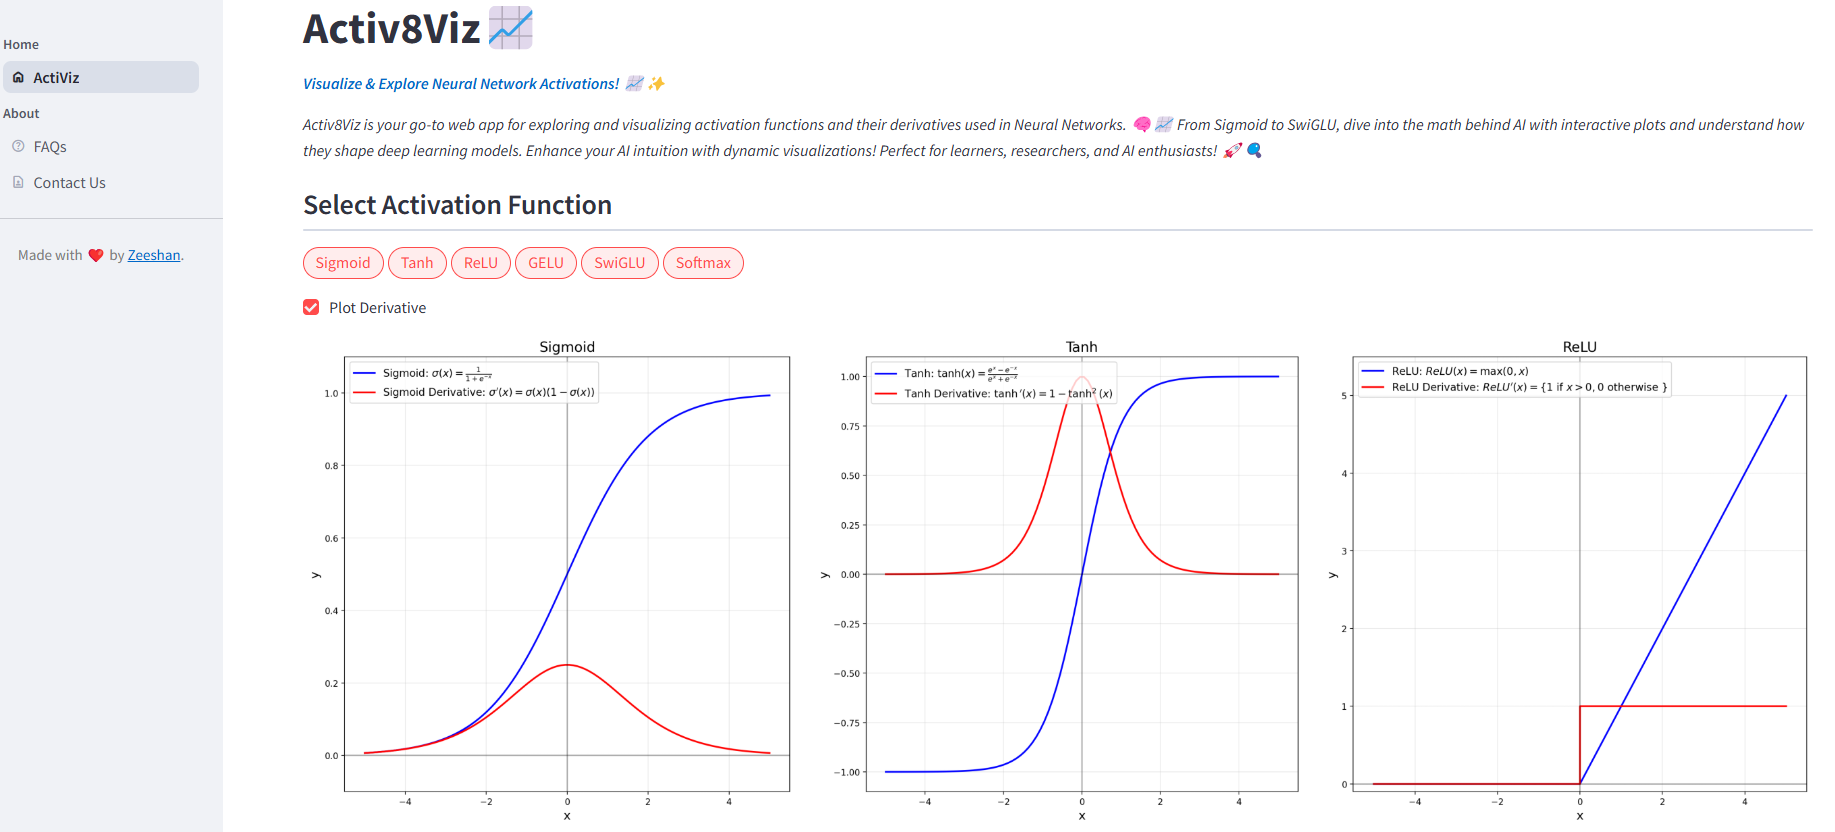
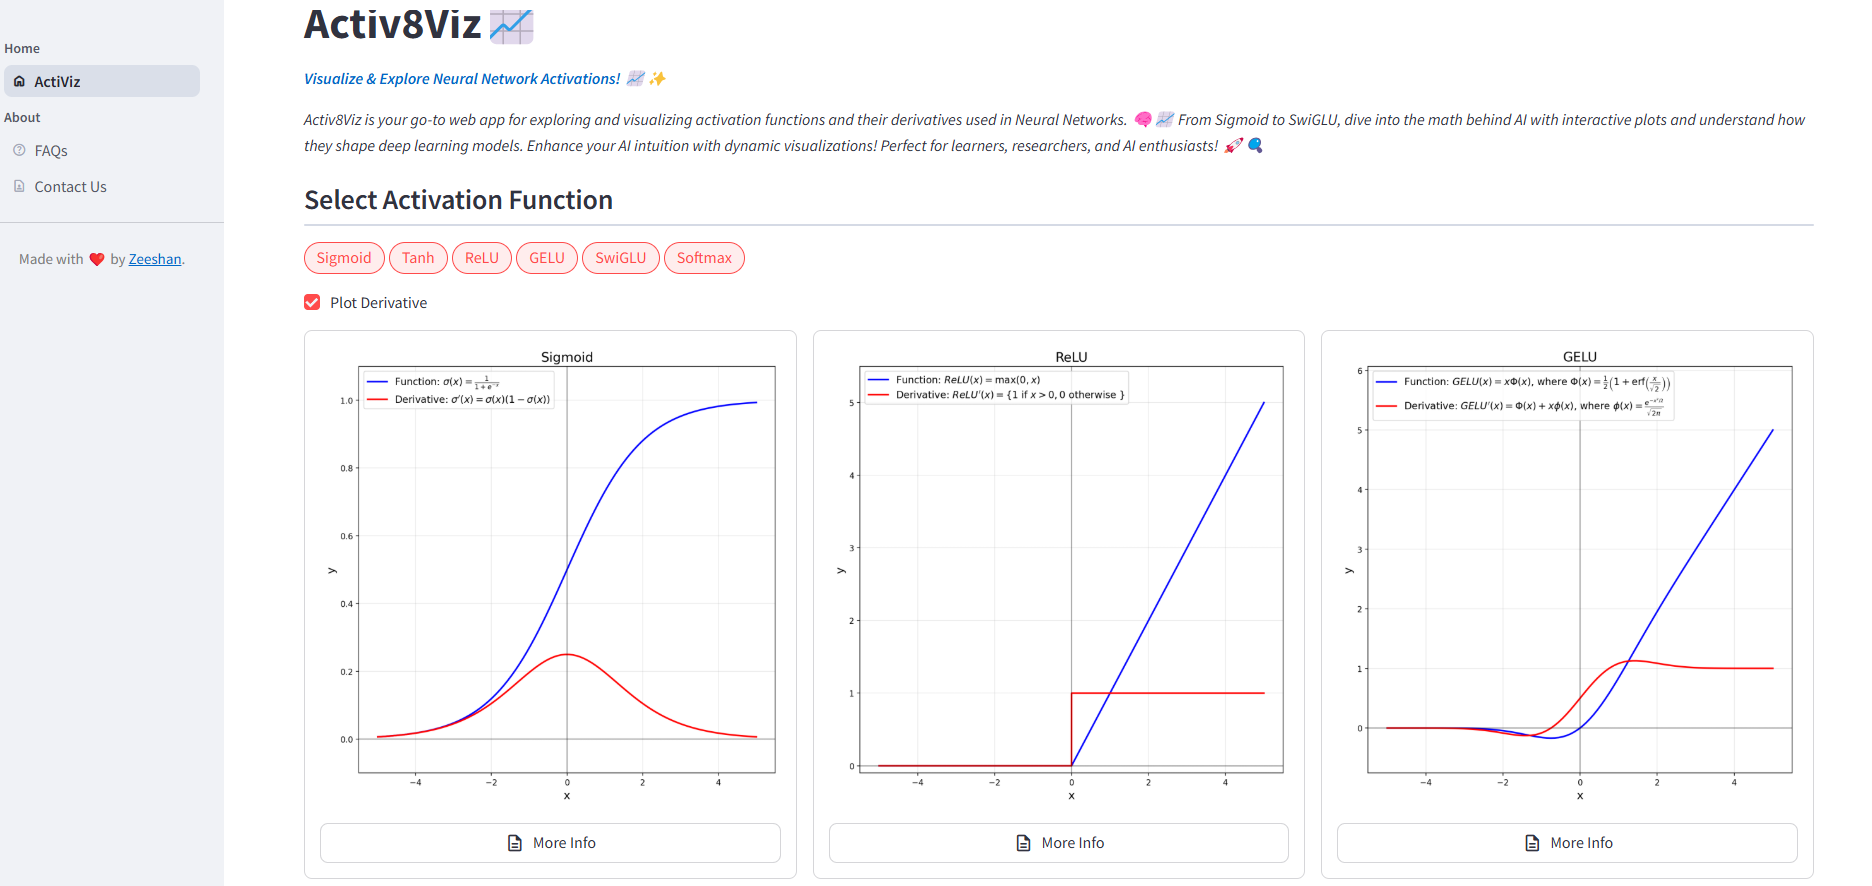
Added More Info button. Clicking the button will open up a dialog box with activation function details. Also organized the activation function in separate file

diff --git a/activation_functions.py b/activation_functions.py
@@ -1,0 +1,209 @@
+import numpy as np
+
+# Define activation functions and their derivatives
+def sigmoid(x):
+    """Sigmoid activation function"""
+    return 1 / (1 + np.exp(-x))
+
+def sigmoid_derivative(x):
+    """Derivative of sigmoid activation function"""
+    sig = sigmoid(x)
+    return sig * (1 - sig)
+
+def tanh(x):
+    """Hyperbolic tangent activation function"""
+    return np.tanh(x)
+
+def tanh_derivative(x):
+    """Derivative of hyperbolic tangent activation function"""
+    return 1 - np.tanh(x)**2
+
+def relu(x):
+    """ReLU activation function"""
+    return np.maximum(0, x)
+
+def relu_derivative(x):
+    """Derivative of ReLU activation function"""
+    return np.where(x > 0, 1, 0)
+
+def gelu(x):
+    """Gaussian Error Linear Unit (GELU) activation function"""
+    return 0.5 * x * (1 + np.tanh(np.sqrt(2 / np.pi) * (x + 0.044715 * x**3)))
+
+def gelu_derivative(x):
+    """Approximate derivative of GELU activation function"""
+    # Approximation
+    cdf = 0.5 * (1 + np.tanh(np.sqrt(2 / np.pi) * (x + 0.044715 * x**3)))
+    pdf = np.exp(-(x**2) / 2) / np.sqrt(2 * np.pi)
+    return cdf + x * pdf
+
+def swiglu(x):
+    """SwiGLU activation function (simplified for 1D)"""
+    # For simplicity, we'll use the same input for both parts
+    # SwiGLU(x,y) = x * sigmoid(beta * y)
+    beta = 1.0  # Default beta value
+    return x * sigmoid(beta * x)
+
+def swiglu_derivative(x):
+    """Approximate derivative of SwiGLU activation function (simplified for 1D)"""
+    beta = 1.0
+    sig = sigmoid(beta * x)
+    return sig + x * beta * sig * (1 - sig)
+
+def softmax(x):
+    """Softmax activation function (simplified for 1D visualization)"""
+    # For visualization purposes, we'll just show a shifted exponential
+    # since proper softmax requires multiple inputs
+    return np.exp(x) / (1 + np.exp(x))
+
+def softmax_derivative(x):
+    """Simplified derivative of softmax (just for visualization)"""
+    # This is a simplification for visualization
+    soft = softmax(x)
+    return soft * (1 - soft)
+
+# Activate functions formula, derivative formula, key characteristics and common use cases
+# Sigmoid
+sigmoid_function_label = 'Function: $\\sigma(x) = \\frac{1}{1 + e^{-x}}$'
+sigmoid_derivative_label = 'Derivative: $\\sigma\'(x) = \\sigma(x)(1 - \\sigma(x))$'
+sigmoid_key_characteristics = """
+1. **S-shaped Curve (Non-linear)** 📈  
+   - Maps input values to a smooth "S"-shaped curve between **0 and 1**.
+2. **Output Range:** 🌡  
+   - The function always outputs values in the range **(0,1)**.
+3. **Gradient Vanishing Issue:** ⚠  
+   - For very large or very small values of \( x \), the gradient approaches **zero**, slowing down learning in deep networks.
+4. **Smooth and Differentiable:** 🔄  
+   - Sigmoid is **differentiable everywhere**, making it useful in gradient-based learning.
+5. **Probabilistic Interpretation:** 🎲  
+   - Since the output is always between 0 and 1, it is commonly used in **binary classification** problems to represent probabilities.
+6. **Zero-centered Output?** ❌  
+   - **No**, sigmoid outputs are always **positive**, which can cause weight updates to be biased in a certain direction.
+"""
+sigmoid_use_cases = """
+1. Binary Classification (Logistic Regression, Neural Networks)  
+2. Output layer activation in simple networks  
+3. Used in LSTM gates for regulating memory updates  
+"""
+# Tanh
+tanh_function_label = 'Function: $\\tanh(x) = \\frac{e^x - e^{-x}}{e^x + e^{-x}}$'
+tanh_derivative_label = 'Derivative: $\\tanh\'(x) = 1 - \\tanh^2(x)$'
+tanh_key_characteristics = """
+1. **S-shaped Curve (Non-linear)** 📈 
+   - Similar to Sigmoid but symmetric around zero.
+2. **Output Range:** 🌡  
+   - Outputs values in the range **(-1,1)**.
+3. **Zero-centered Output:** ✅  
+   - Unlike Sigmoid, **Tanh is zero-centered**, which helps in training deep networks.
+4. **Gradient Vanishing Issue:** ⚠  
+   - Similar to Sigmoid, suffers from **vanishing gradients** for extreme values of \( x \).
+"""
+tanh_use_cases = """
+1. Used in **hidden layers** of neural networks  
+2. Preferred over Sigmoid when zero-centered activations are needed
+"""
+
+# ReLU
+relu_function_label = 'Function: $ReLU(x) = \\max(0, x)$'
+relu_derivative_label = r"Derivative: $ReLU'(x) = \{ 1 \text{ if } x > 0, 0 \text{ otherwise } \}$"
+relu_key_characteristics = """
+1. **Piecewise Linear & Non-linear** 🔀  
+   - Outputs **0** for negative inputs and **x** for positive inputs.
+
+2. **Output Range:** 🌡  
+   - Outputs values in the range **[0, ∞)**.
+
+3. **Zero-centered Output?** ❌  
+   - No, all negative inputs become **zero**, which may cause **dying ReLU** problem.
+
+4. **No Vanishing Gradient Issue for Positive Inputs:** 🚀  
+   - Unlike Sigmoid/Tanh, **no gradient vanishing for positive values**.
+
+5. **Dying ReLU Problem:** ⚠  
+   - For negative inputs, gradient is **zero**, meaning neurons can become inactive.
+"""
+relu_use_cases = """
+1. Default activation function in deep learning models  
+2. Used in **CNNs, MLPs, and Transformers**
+"""
+
+# GELU
+gelu_function_label = 'Function: $GELU(x) = x \\Phi(x)$, where $\\Phi(x) = \\frac{1}{2} \\left(1 + \\text{erf} \\left( \\frac{x}{\\sqrt{2}} \\right) \\right)$'
+gelu_derivative_label = 'Derivative: $GELU\'(x) = \\Phi(x) + x \\phi(x)$, where $\\phi(x) = \\frac{e^{-x^2/2}}{\\sqrt{2\\pi}}$'
+gelu_key_characteristics = """
+1. **Smooth & Non-linear** 🔄  
+   - Unlike ReLU, GELU smoothly **weights** input values instead of cutting them off.
+
+2. **Output Range:** 🌡  
+   - Values range between **(-∞, ∞)**, making it **zero-centered**.
+
+3. **Better than ReLU?** ✅  
+   - Provides **smoother activation** and avoids sharp transitions like ReLU.
+
+4. **Probabilistic Interpretation:** 🎲  
+   - Uses **Gaussian Distribution** to determine activation.
+"""
+gelu_use_cases = """
+1. Used in **Transformers, GPT, and BERT** models  
+2. Performs better than ReLU in **deep architectures**
+"""
+
+# SwiGLU
+swiglu_function_label = 'Function: $SwiGLU(x) = \\text{Swish}(x W_1) \\cdot (x W_2)$, where $\\text{Swish}(x) = x \\sigma(x)$'
+swiglu_derivative_label = 'Derivative: Complex and involves product and chain rule'
+swiglu_key_characteristics = """
+1. **Combination of Swish & Gating Mechanism** 🔄  
+   - Uses **Swish activation** and a **gated linear unit (GLU)** for better feature selection.
+
+2. **Smooth & Non-linear** ✅  
+   - Unlike ReLU, it does not abruptly cut off negative values.
+
+3. **Element-wise Multiplication** ✖  
+   - Combines two transformed inputs, enhancing expressiveness.
+
+4. **Better than ReLU?** 🚀  
+   - Achieves **better performance** in Transformers and NLP models.
+"""
+swiglu_use_cases = """
+1. Used in **Google’s PaLM and other Transformer models**
+2. Improves training stability and efficiency in deep networks
+"""
+
+# Softmax
+softmax_function_label = 'Function: $\\text{Softmax}(x_i) = \\frac{e^{x_i}}{\\sum_{j} e^{x_j}}$'
+softmax_derivative_label = 'Derivative: $\\frac{\\partial \\text{Softmax}(x_i)}{\\partial x_j} = \\text{Softmax}(x_i) (\\delta_{ij} - \\text{Softmax}(x_j))$'
+softmax_key_characteristics = """
+1. **Transforms Inputs into Probabilities** 🎯  
+   - Converts raw scores into **probability values** between **0 and 1**.
+2. **Sum of Outputs Equals 1** ✅  
+   - Ensures that all probabilities add up to **1**, making it ideal for classification.
+3. **Exponentially Scales Inputs** 🔢  
+   - Large values dominate the sum due to **exponential scaling**.
+"""
+softmax_use_cases = """
+1. Used in **multi-class classification tasks**
+2. Applied in **Neural Networks' final layer for probability prediction**
+3. Used in **attention mechanisms in Transformers**
+"""
+
+# Dictionary of all activation functions
+all_activation_functions = {
+    "Sigmoid": {"function": sigmoid, "derivative": sigmoid_derivative,
+                "label_function":sigmoid_function_label, "label_derivative":sigmoid_derivative_label,
+                "key_characteristics": sigmoid_key_characteristics, "use_cases": sigmoid_use_cases},
+    "Tanh": {"function": tanh, "derivative": tanh_derivative,
+             "label_function":tanh_function_label, "label_derivative":tanh_derivative_label,
+             "key_characteristics": tanh_key_characteristics, "use_cases": tanh_use_cases},
+    "ReLU": {"function": relu, "derivative": relu_derivative,
+             "label_function":relu_function_label, "label_derivative": relu_derivative_label,
+             "key_characteristics": relu_key_characteristics, "use_cases": relu_use_cases},
+    "GELU": {"function": gelu, "derivative": gelu_derivative,
+             "label_function":gelu_function_label, "label_derivative":gelu_derivative_label,
+             "key_characteristics": gelu_key_characteristics, "use_cases": gelu_use_cases},
+    "SwiGLU": {"function": swiglu, "derivative": swiglu_derivative,
+               "label_function":swiglu_function_label, "label_derivative":swiglu_derivative_label,
+               "key_characteristics": swiglu_key_characteristics, "use_cases": swiglu_use_cases},
+    "Softmax": {"function": softmax, "derivative": softmax_derivative,
+                "label_function":softmax_function_label, "label_derivative":softmax_derivative_label,
+                "key_characteristics": softmax_key_characteristics, "use_cases": softmax_use_cases}
+}

diff --git a/util.py b/util.py
@@ -1,103 +1,7 @@
 import streamlit as st
-import numpy as np
 import matplotlib.pyplot as plt
-
-
-# Define activation functions and their derivatives
-def sigmoid(x):
-    """Sigmoid activation function"""
-    return 1 / (1 + np.exp(-x))
-
-def sigmoid_derivative(x):
-    """Derivative of sigmoid activation function"""
-    sig = sigmoid(x)
-    return sig * (1 - sig)
-
-def tanh(x):
-    """Hyperbolic tangent activation function"""
-    return np.tanh(x)
-
-def tanh_derivative(x):
-    """Derivative of hyperbolic tangent activation function"""
-    return 1 - np.tanh(x)**2
-
-def relu(x):
-    """ReLU activation function"""
-    return np.maximum(0, x)
-
-def relu_derivative(x):
-    """Derivative of ReLU activation function"""
-    return np.where(x > 0, 1, 0)
-
-def gelu(x):
-    """Gaussian Error Linear Unit (GELU) activation function"""
-    return 0.5 * x * (1 + np.tanh(np.sqrt(2 / np.pi) * (x + 0.044715 * x**3)))
-
-def gelu_derivative(x):
-    """Approximate derivative of GELU activation function"""
-    # Approximation
-    cdf = 0.5 * (1 + np.tanh(np.sqrt(2 / np.pi) * (x + 0.044715 * x**3)))
-    pdf = np.exp(-(x**2) / 2) / np.sqrt(2 * np.pi)
-    return cdf + x * pdf
-
-def swiglu(x):
-    """SwiGLU activation function (simplified for 1D)"""
-    # For simplicity, we'll use the same input for both parts
-    # SwiGLU(x,y) = x * sigmoid(beta * y)
-    beta = 1.0  # Default beta value
-    return x * sigmoid(beta * x)
-
-def swiglu_derivative(x):
-    """Approximate derivative of SwiGLU activation function (simplified for 1D)"""
-    beta = 1.0
-    sig = sigmoid(beta * x)
-    return sig + x * beta * sig * (1 - sig)
-
-def softmax(x):
-    """Softmax activation function (simplified for 1D visualization)"""
-    # For visualization purposes, we'll just show a shifted exponential
-    # since proper softmax requires multiple inputs
-    return np.exp(x) / (1 + np.exp(x))
-
-def softmax_derivative(x):
-    """Simplified derivative of softmax (just for visualization)"""
-    # This is a simplification for visualization
-    soft = softmax(x)
-    return soft * (1 - soft)
-
-# Sigmoid
-sigmoid_function_label = 'Sigmoid: $\\sigma(x) = \\frac{1}{1 + e^{-x}}$'
-sigmoid_derivative_label = 'Sigmoid Derivative: $\\sigma\'(x) = \\sigma(x)(1 - \\sigma(x))$'
-
-# Tanh
-tanh_function_label = 'Tanh: $\\tanh(x) = \\frac{e^x - e^{-x}}{e^x + e^{-x}}$'
-tanh_derivative_label = 'Tanh Derivative: $\\tanh\'(x) = 1 - \\tanh^2(x)$'
-
-# ReLU
-relu_function_label = 'ReLU: $ReLU(x) = \\max(0, x)$'
-relu_derivative_label = r"ReLU Derivative: $ReLU'(x) = \{ 1 \text{ if } x > 0, 0 \text{ otherwise } \}$"
-
-# GELU
-gelu_function_label = 'GELU: $GELU(x) = x \\Phi(x)$, where $\\Phi(x) = \\frac{1}{2} \\left(1 + \\text{erf} \\left( \\frac{x}{\\sqrt{2}} \\right) \\right)$'
-gelu_derivative_label = 'GELU Derivative: $GELU\'(x) = \\Phi(x) + x \\phi(x)$, where $\\phi(x) = \\frac{e^{-x^2/2}}{\\sqrt{2\\pi}}$'
-
-# SwiGLU
-swiglu_function_label = 'SwiGLU: $SwiGLU(x) = \\text{Swish}(x W_1) \\cdot (x W_2)$, where $\\text{Swish}(x) = x \\sigma(x)$'
-swiglu_derivative_label = 'SwiGLU Derivative: Complex and involves product and chain rule'
-
-# Softmax
-softmax_function_label = 'Softmax: $\\text{Softmax}(x_i) = \\frac{e^{x_i}}{\\sum_{j} e^{x_j}}$'
-softmax_derivative_label = 'Softmax Derivative: $\\frac{\\partial \\text{Softmax}(x_i)}{\\partial x_j} = \\text{Softmax}(x_i) (\\delta_{ij} - \\text{Softmax}(x_j))$'
-
-
-all_activation_functions = {
-    "Sigmoid": {"function": sigmoid, "derivative": sigmoid_derivative, "label_function":sigmoid_function_label, "label_derivative":sigmoid_derivative_label},
-    "Tanh": {"function": tanh, "derivative": tanh_derivative, "label_function":tanh_function_label, "label_derivative":tanh_derivative_label},
-    "ReLU": {"function": relu, "derivative": relu_derivative, "label_function":relu_function_label, "label_derivative": relu_derivative_label},
-    "GELU": {"function": gelu, "derivative": gelu_derivative, "label_function":gelu_function_label, "label_derivative":gelu_derivative_label},
-    "SwiGLU": {"function": swiglu, "derivative": swiglu_derivative, "label_function":swiglu_function_label, "label_derivative":swiglu_derivative_label},
-    "Softmax": {"function": softmax, "derivative": softmax_derivative, "label_function":softmax_function_label, "label_derivative":softmax_derivative_label}
-}
+import numpy as np
+from activation_functions import *
 
 def create_activation_plot(title, plot_derivative):
     """
@@ -170,6 +74,14 @@ def create_activation_plot(title, plot_derivative):
 
     plt.tight_layout()
     return fig
+
+@st.dialog("About Activation Function", width='large')
+def more_info_dialog(title):
+    st.write("**Name:** ", "$"+f"{title}"+"$")
+    st.write("**Formula:** ", all_activation_functions[title]["label_function"].split(":")[-1])
+    st.write("**Derivative:** ", all_activation_functions[title]["label_derivative"].split(":")[-1])
+    st.write("**Key Characteristics:** ", all_activation_functions[title]["key_characteristics"])
+    st.write("**Common Use Cases:** ", all_activation_functions[title]["use_cases"])
 
 def display_footer():
     footer = """

diff --git a/main.py b/main.py
@@ -33,12 +33,14 @@ else:
         num_plots = len(selection)
         max_cols = 3
         for i in range(0, num_plots, max_cols):
-            cols = st.columns(min(max_cols, num_plots - i))
+            cols = st.columns(min(max_cols, num_plots - i), border=True)
             for j, col in enumerate(cols):
                 if i + j < num_plots:
                     with col:
                         fig = create_activation_plot(selection[i+j], plot_derivative)
                         st.pyplot(fig)
+                        if st.button('More Info', key=f"info_{i+j}", use_container_width=True, icon=":material/description:"):
+                            more_info_dialog(selection[i+j])
 
 
 

diff --git a/README.md b/README.md
@@ -28,3 +28,4 @@ You must have Python 3.11 or later installed.
 # Screen Shots
 ![img.png](screenshots/img.png)
 ![img_1.png](screenshots/img_1.png)
+![img_2.png](screenshots/img_2.png)
